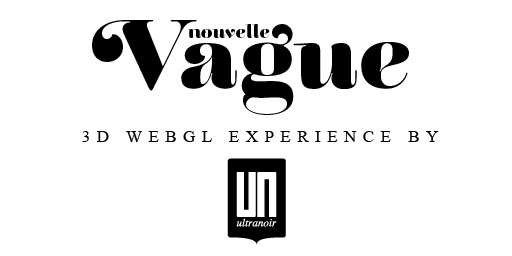
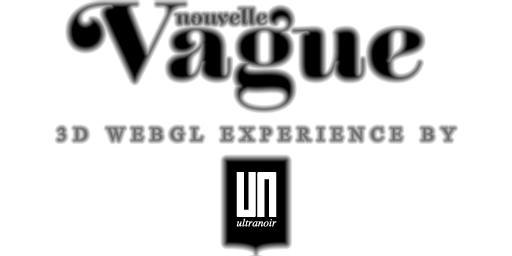
use distance map for the ground

Changed region(s): [[0.0938, 0.0, 0.9062, 0.5625], [0.4062, 0.5938, 0.5938, 1.0]]

diff --git a/js/ground.js b/js/ground.js
@@ -39,8 +39,24 @@ var createGround = function() {
 
             "void main(void) {",
             "vec4 color = texture2D(Texture1, FragTexCoord0);",
+            "#if 1",
+            "float edge = 0.4;",
+            "float end = 0.6;",
+            " if (color.a < edge) {",
+            "   discard;",
+            "   return;",
+            " }",
+            "float a = smoothstep(edge, end, color.a);",
+            "//float a = 1.0;",
+            "//float a = clamp(color.a*2.0, 0.0, 1.0);",
+            "color.rgb *= a;",
+            "color.a = a;",
+            "//color.rgb *= color.a;",
+            "color = fog3(color)* color.a;",
+            "#else",
             "color.rgb *= color.a;",
             "color = fog3(color)* color.a;",
+            "#endif",
             "gl_FragColor = color;",
             "}",
         ].join('\n');

diff --git a/js/fog.js b/js/fog.js
@@ -59,7 +59,8 @@ var getFogFragmentCode = function() {
         "}",
         "vec4 fog3(vec4 inputColor) {",
         "  float value = getFogDist(40.0,vec3(100.0,0.0, 100.0), 10.0*vec3(0.3,1.0,0.2));",
-        "  vec4 color = mix(vec4(vec3(0.7),1.0), inputColor, value);",
+        "  vec3 fogColor = vec3(1.0);",
+        "  vec4 color = mix(vec4(fogColor,1.0), inputColor, value);",
         "  return color;",
         "}"
     ].join('\n');

diff --git a/js/main.js b/js/main.js
@@ -284,7 +284,7 @@ var start = function() {
     orbitManipulator.setTarget([0, 0, 24.0]);
     orbitManipulator.setDistance(150);
     orbitManipulator.setMinDistance(100);
-    orbitManipulator.setMaxDistance(400);
+    orbitManipulator.setMaxDistance(450);
 
     viewer.getCamera().setComputeNearFar(false);
     var aspectRatio = canvas.width/canvas.height;
